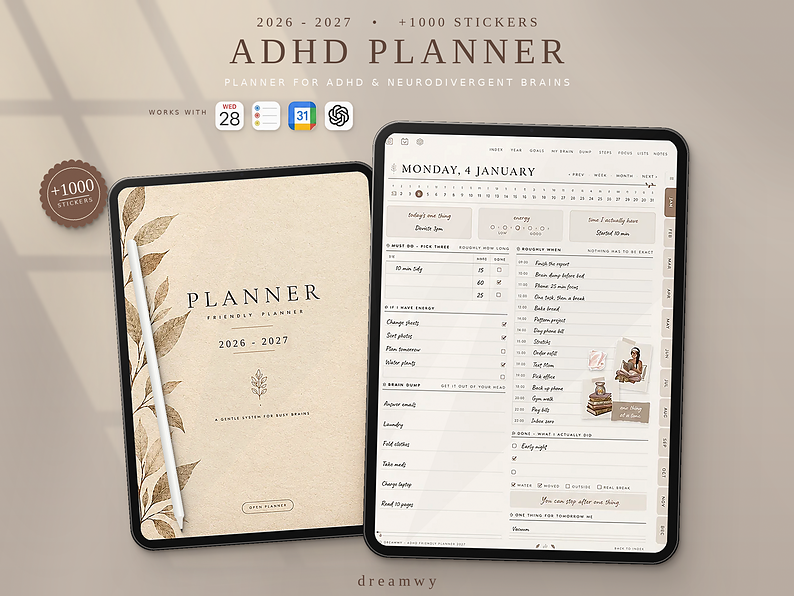
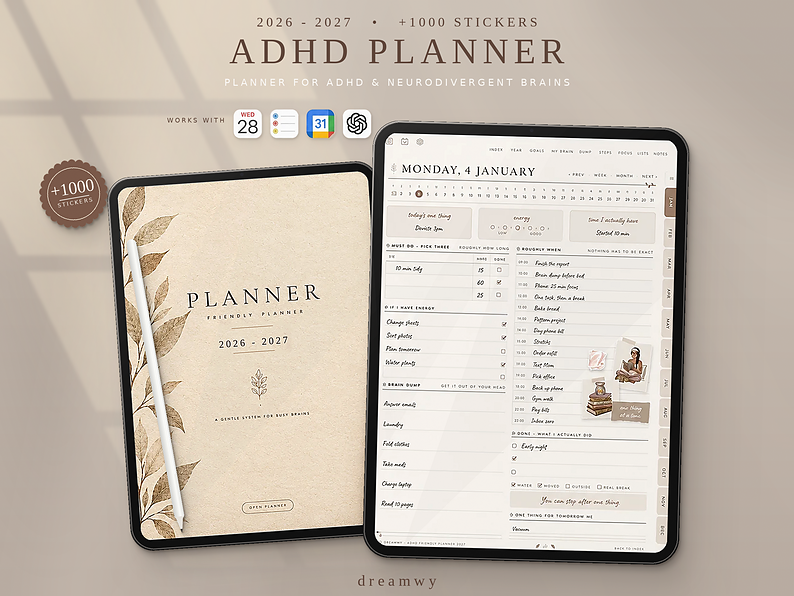
Mockup: move WORKS WITH row a little right and lower
Claude-Session: https://claude.ai/code/session_015ZGVvYxuW9E1f2kNKHXQzt

Changed region(s): [[0.1814, 0.151, 0.4836, 0.2416]]

diff --git a/mockup/make_mockup.py b/mockup/make_mockup.py
@@ -310,16 +310,16 @@ IC = 88
 tiles = [i.resize((IC, IC), Image.LANCZOS).filter(ImageFilter.UnsharpMask(1.2, 90, 0)) for i in (icon_acal, icon_rem, icon_gcal, icon_gpt)]
 gap = 22
 lab_font = ImageFont.truetype(sans, 19)
-LEFT = 450                                         # left edge of the cover tablet
+LEFT = 505                                         # left edge of the cover tablet
 lab_w = sum(d.textlength(c, font=lab_font) for c in "WORKS WITH") + 5 * 9
 x0 = int(LEFT + lab_w + 28)
 mk_i = Image.new("L", (IC, IC), 0); ImageDraw.Draw(mk_i).rounded_rectangle((0, 0, IC - 1, IC - 1), radius=21, fill=255)
-spaced(d, (LEFT, 306 + 22), "WORKS WITH", lab_font, ink, 5, anchor_center=False)
+spaced(d, (LEFT, 330 + 22), "WORKS WITH", lab_font, ink, 5, anchor_center=False)
 x = x0
 for ic in tiles:
     tile = Image.new("RGBA", (IC, IC)); tile.paste(ic, (0, 0)); tile.putalpha(mk_i)
-    drop(mk_i, x, 306, [(2, 4, 3, .35), (6, 12, 12, .25)])
-    canvas.alpha_composite(tile, (x, 306))
+    drop(mk_i, x, 330, [(2, 4, 3, .35), (6, 12, 12, .25)])
+    canvas.alpha_composite(tile, (x, 330))
     x += IC + gap
 d = ImageDraw.Draw(canvas)
 spaced(d, (W / 2, 1728), "dreamwy", ImageFont.truetype(serif, 46), ink, 11)
